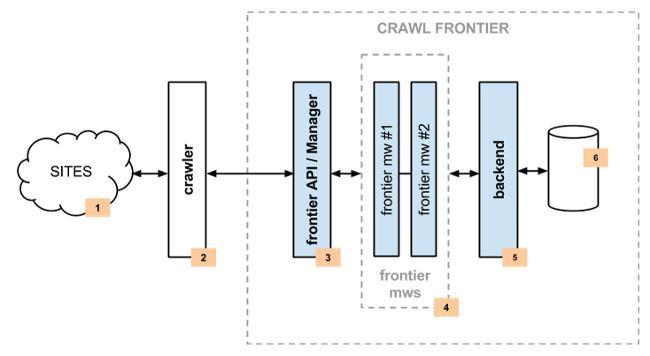
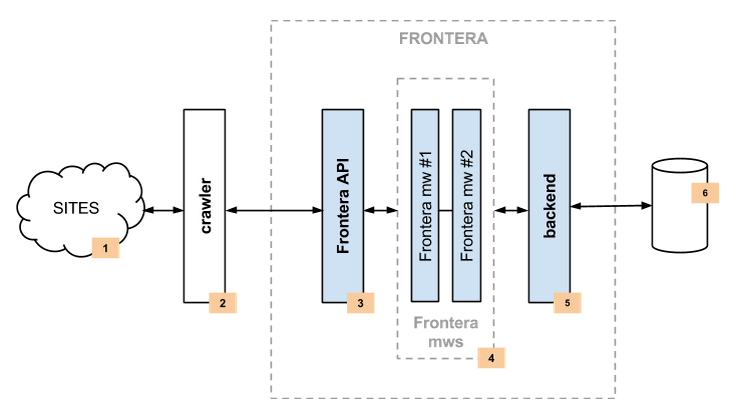
Architecture picture update and frontier settings.

diff --git a/docs/source/topics/architecture.rst b/docs/source/topics/architecture.rst
@@ -12,8 +12,8 @@ and an outline of the data flow that takes place inside the system. A brief desc
 below with links for more detailed information about them. The data flow is also described below.
 
 .. image:: _images/frontier_02.png
-   :width: 650px
-   :height: 356px
+   :width: 735px
+   :height: 420px
 
 Components
 ==========
@@ -27,7 +27,7 @@ what pages should be crawled next.
 Crawler can be implemented using `Scrapy`_ or any other crawling framework/system as the framework offers a generic
 frontier functionality.
 
-Frontier API / Manager
+Frontera API / Manager
 ----------------------
 
 The main entry point to Frontera API (3) is the FrontierManager object. Frontier users, in our case the Crawler (2),

diff --git a/docs/source/index.rst b/docs/source/index.rst
@@ -32,7 +32,7 @@ Basic concepts
    topics/architecture
    topics/frontier-objects
    topics/frontier-api
-   topics/frontier-settings
+   topics/frontera-settings
 
 :doc:`topics/what-is-frontera`
     Learn what a crawl frontier is and how to use it.
@@ -46,7 +46,7 @@ Basic concepts
 :doc:`topics/frontier-api`
     Learn how to use the frontier.
 
-:doc:`topics/frontier-settings`
+:doc:`topics/frontera-settings`
     See how to configure Frontera.
 
 
@@ -130,7 +130,7 @@ All the rest
    topics/frontier-api
    topics/frontier-middlewares
    topics/frontier-backends
-   topics/frontier-settings
+   topics/frontera-settings
    topics/scrapy-integration
    topics/graph-manager
    topics/frontier-tester

diff --git a/docs/source/topics/frontier-api.rst b/docs/source/topics/frontier-api.rst
@@ -1,5 +1,5 @@
 ============
-Frontier API
+Frontera API
 ============
 
 This section documents the Frontera core API, and is intended for developers of middlewares and backends.
@@ -21,7 +21,7 @@ Loading from settings
 =====================
 
 Although :class:`FrontierManager <frontera.core.manager.FrontierManager>` can be initialized using parameters the most common way of doing this is using
-:doc:`Frontier Settings <frontier-settings>`.
+:doc:`Frontera Settings <frontera-settings>`.
 
 
 This can be done through the :attr:`from_settings <frontera.core.manager.FrontierManager.from_settings>`

diff --git a/docs/source/topics/frontier-backends.rst b/docs/source/topics/frontier-backends.rst
@@ -183,7 +183,7 @@ If you want for instance to create a model to represent domains::
 
 Models can be accessed from the Backend dictionary attribute ``models``.
 
-For a complete list of all settings used for sqlalchemy backends check the :doc:`settings <frontier-settings>` section.
+For a complete list of all settings used for sqlalchemy backends check the :doc:`settings <frontera-settings>` section.
 
 .. class:: frontera.contrib.backends.sqlalchemy.BASE
 

diff --git a/docs/source/topics/examples.rst b/docs/source/topics/examples.rst
@@ -2,7 +2,7 @@
 Examples
 ========
 
-The project repo includes an ``examples`` folder with some scripts and projects using CrawlFrontier::
+The project repo includes an ``examples`` folder with some scripts and projects using Frontera::
 
     examples/
         requests/
